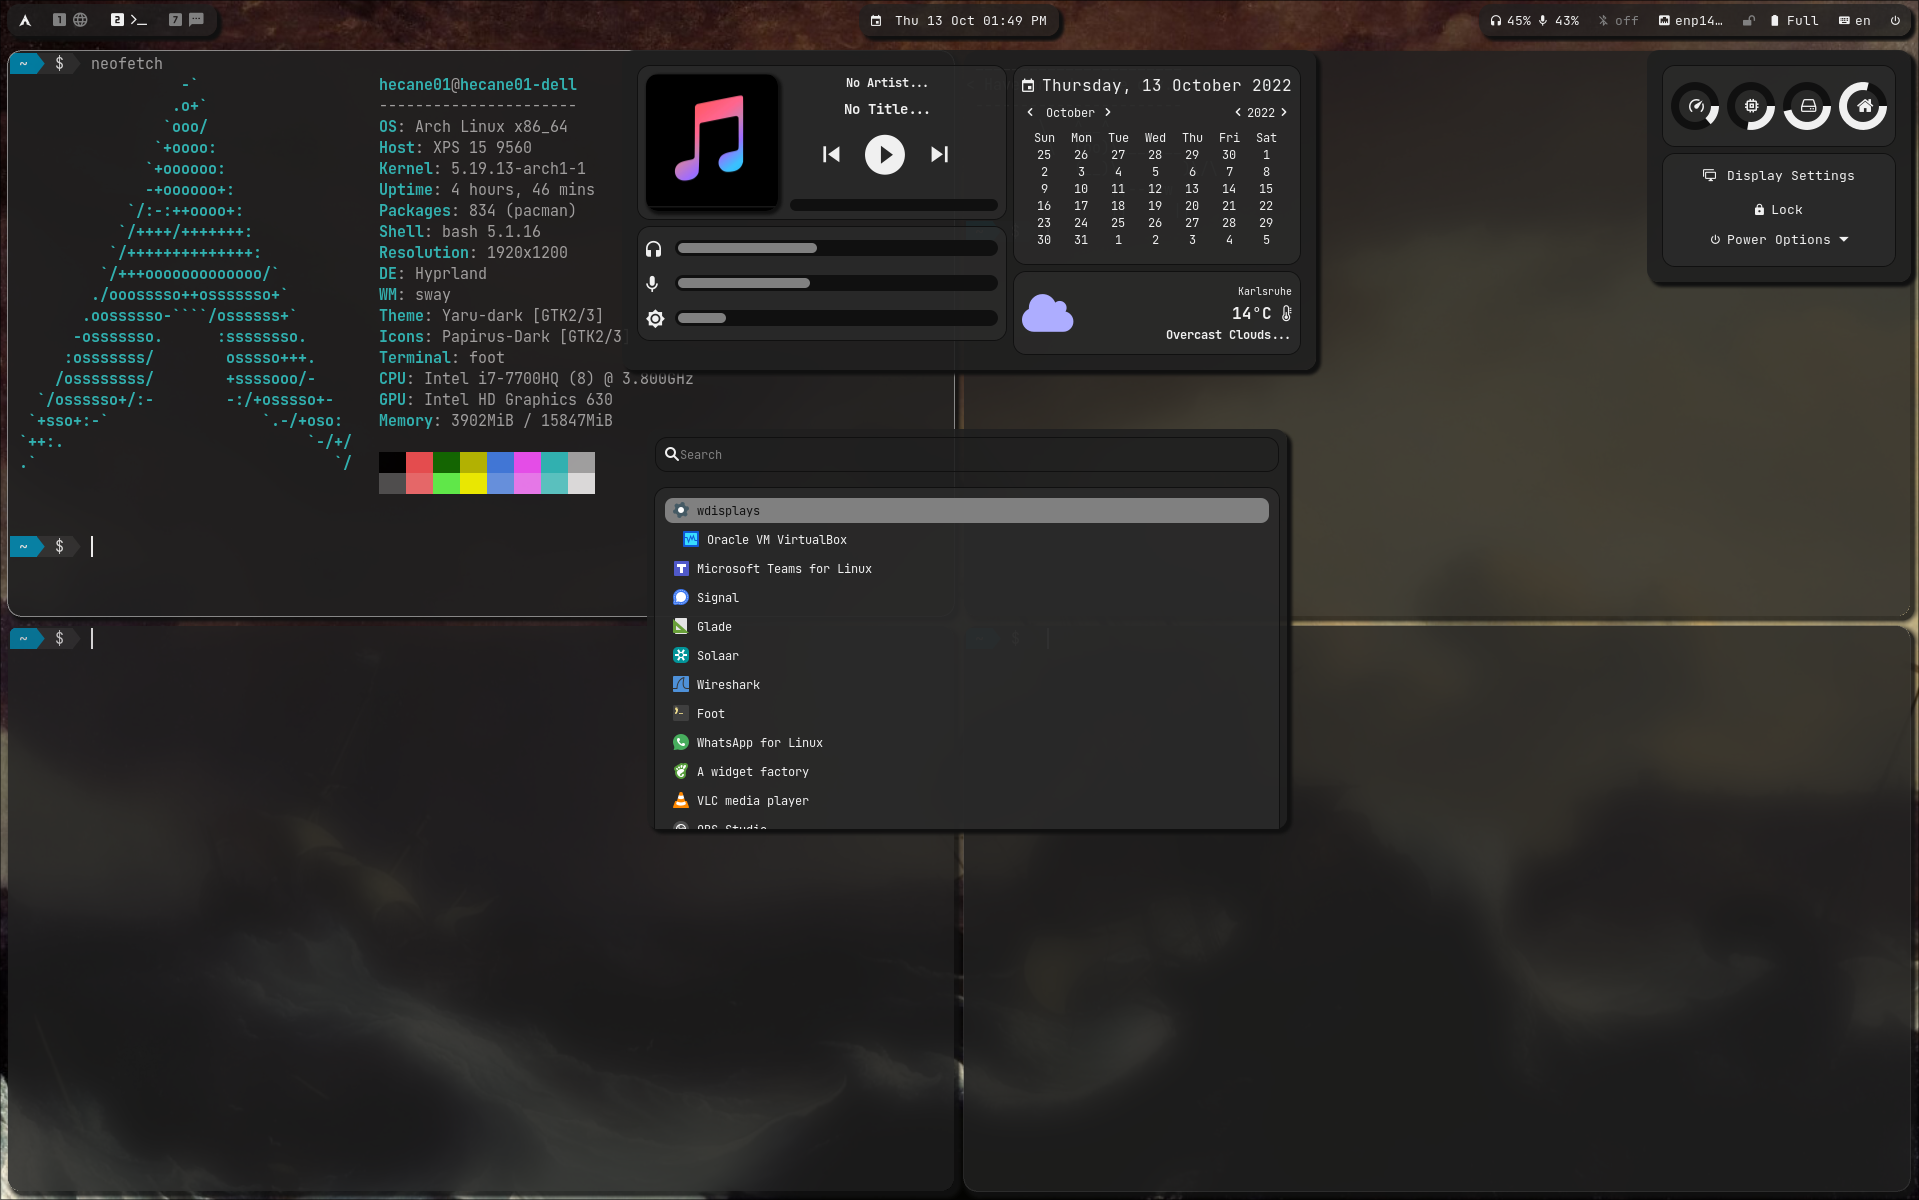
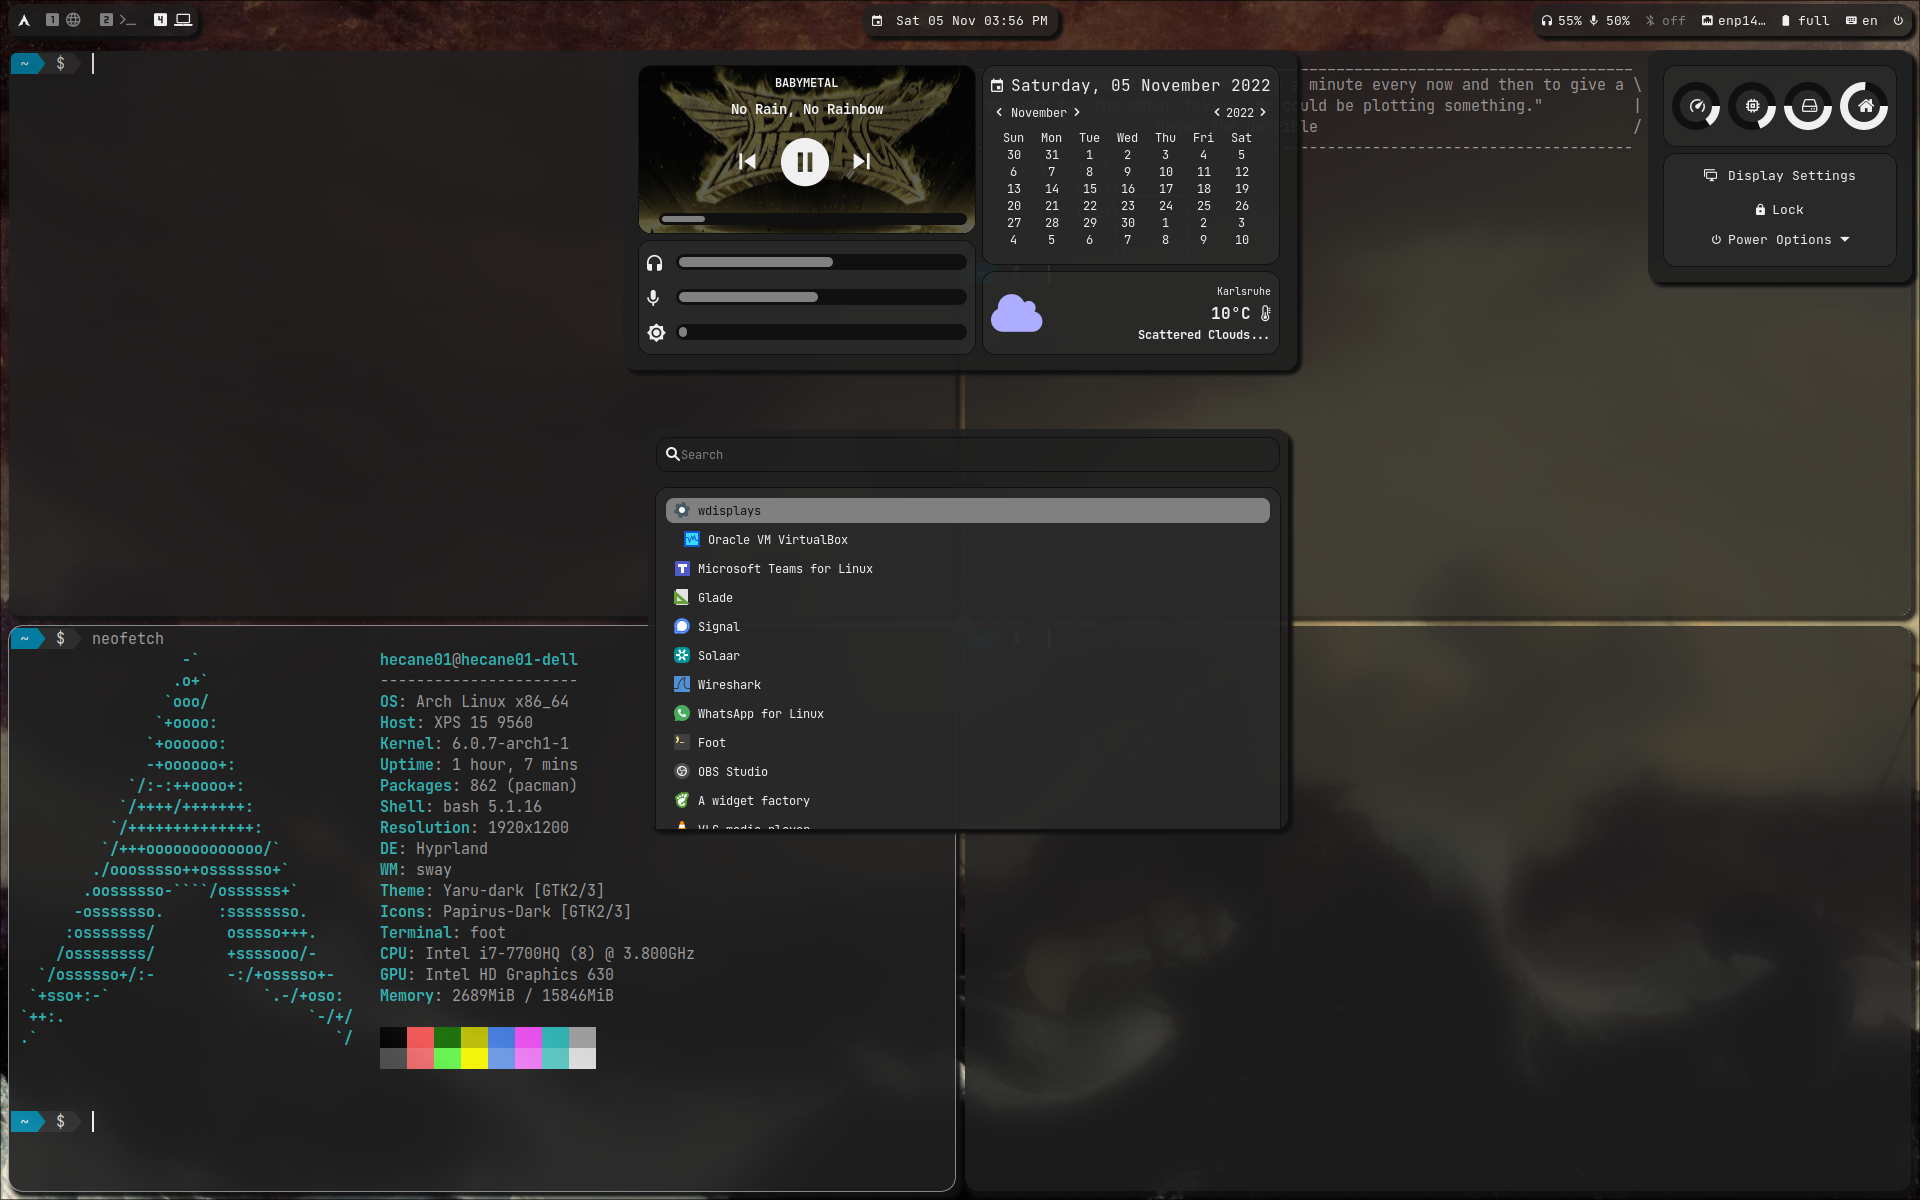
Eww: Put musicart behind the whole music box

diff --git a/.config/eww/eww.scss b/.config/eww/eww.scss
@@ -84,17 +84,11 @@ tooltip {
 
 .music {
     font-size: 12px;
-    background-color: $bg_light;
+    background-size: cover;
+    background-position: center;
     border-radius: 12px;
     padding: 8px;
     box-shadow: 0px 0px 1px 1px $bg_dark;
-}
-.musicart {
-    background-size: 132px;
-    min-height: 132px;
-    min-width: 132px;
-    border-radius: 12px;
-    box-shadow: 2px 2px 2px 2px $bg_dark;
 }
 .musicartist {
     font-size: 12px;
@@ -105,7 +99,7 @@ tooltip {
     font-size: 14px;
     font-weight: bold;
     margin-top: 8px;
-    min-width: 220px;
+    min-width: 320px;
 }
 .musicbuttonbox {
     font-size: 32px;
@@ -118,7 +112,7 @@ tooltip {
     color: $grey;
 }
 .pause-play {
-    font-size: 48px;
+    font-size: 58px;
     margin-right: 12px;
 }
 .music-position trough {
